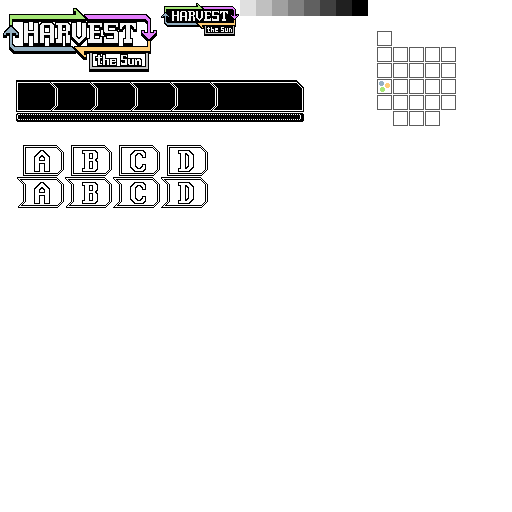
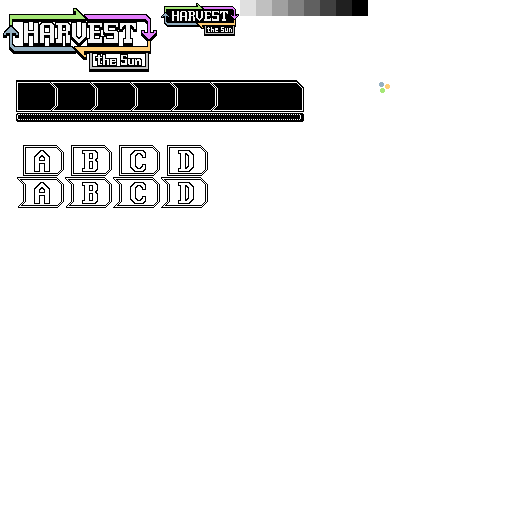
added bg and outlines for level builder sidepanel

Changed region(s): [[0.7188, 0.0625, 0.9062, 0.25]]

diff --git a/src/game/menus.py b/src/game/menus.py
@@ -1045,6 +1045,96 @@ class LevelMetaDataEditScene(OptionSelectScene):
                                    allowed_chars="ABCDabcd")
 
 
+class LevelEditObjectButton(ui.UiElement):
+
+    def __init__(self):
+        super().__init__()
+
+    def update(self):
+        pass
+
+    def get_size(self):
+        return (32, 32)
+
+    def __init__(self, scene, xy, icon, is_selected=lambda: False):
+        super().__init__()
+        self.scene = scene
+        self.icon = icon
+        self.is_selected = is_selected
+
+
+class LevelEditObjectSidepanel(ui.UiElement):
+    # NO STATE ALLOWED IN THIS CLASS
+    # don't even think about it
+
+    def __init__(self, scene):
+        super().__init__()
+
+        self.page_selector_img = None  # just a non-interactive image for now, lol
+
+        self.all_buttons = {}  # x, y -> LevelEditObjectButton
+        self.bg_fill = None
+        self.bg_panels = [None] * 5  # top, mid1, divider, mid2, bottom
+        self.expand_button = None
+
+        self.scene = scene
+        self.bg_opacity = 0.8
+
+    def _build_elements(self):
+        pass
+
+    def add_button(self, xy, button):
+        self.all_buttons[xy] = button
+
+    def all_sprites(self):
+        yield self.bg_fill
+        yield self.page_selector_img
+        for panel in self.bg_panels:
+            yield panel
+        if self.expand_button is not None:
+            pass  # is this even fucking necessary
+
+    def update_sprites(self):
+        xy = self.get_xy(absolute=True)
+        xy = (xy[0] + 4, xy[1])
+        size = self.get_panel_size()
+
+        if self.bg_fill is None:
+            model = spritesheets.get_instance().get_sheet(spritesheets.WhiteSquare.SHEET_ID).get_sprite(self.bg_opacity)
+            self.bg_fill = sprites.ImageSprite(model, 0, 0, spriteref.UI_BG_LAYER)
+        self.bg_fill = self.bg_fill.update(new_x=xy[0], new_y=xy[1], new_raw_size=size,
+                                           new_color=colors.PERFECT_BLACK, new_depth=10)
+
+        ys = [0, 8, size[1] - 64, size[1] - 64 + 8, size[1] - 8, size[1]]
+        for i in range(len(self.bg_panels)):
+            if i == 0:
+                model = spriteref.ui_sheet().level_builder_panel_top_outline
+            elif i == 2:
+                model = spriteref.ui_sheet().level_builder_panel_divider_outline
+            elif i == 4:
+                model = spriteref.ui_sheet().level_builder_panel_bottom_outline
+            else:
+                model = spriteref.ui_sheet().level_builder_panel_mid_outline
+
+            panel = self.bg_panels[i]
+            if panel is None:
+                panel = sprites.ImageSprite.new_sprite(spriteref.UI_FG_LAYER)
+            self.bg_panels[i] = panel.update(new_model=model, new_x=xy[0], new_y=ys[i],
+                                             new_raw_size=(size[0], ys[i + 1] - ys[i]),
+                                             new_color=colors.WHITE)
+
+    def update(self):
+        self.update_sprites()
+
+    def get_panel_size(self):
+        return 96, renderengine.get_instance().get_game_size()[1]
+
+    def get_size(self):
+        panel_size = self.get_panel_size()
+        # include width of the expand/contract button
+        return (panel_size[0] + 4, panel_size[1])
+
+
 class LevelEditGameScene(_BaseGameScene):
 
     def __init__(self, bp: blueprints.LevelBlueprint, output_file=None):
@@ -1071,12 +1161,18 @@ class LevelEditGameScene(_BaseGameScene):
         self.resolution_options = [cs // 8, cs // 4, cs // 2, cs]  # essentially assumes cs >= 16
         self.camera_speed = 8  # ticks per move (smaller == faster)
 
+        self.sidepanel = self._setup_sidepanel()
+
         self._dirty = False  # whether the current state is different from the last-saved state
 
         self.stamp_current_state()
         self.setup_new_world(bp)
 
         self.object_pallette = self._load_object_pallette()
+
+    def _setup_sidepanel(self):
+        return LevelEditObjectSidepanel(self)
+        # TODO add buttons and stuff
 
     def stamp_current_state(self):
         cur_specs = [s.copy() for s in self.all_spec_blobs]
@@ -1424,6 +1520,12 @@ class LevelEditGameScene(_BaseGameScene):
             dy = 2 * gs.get_instance().cell_size // zoom * camera_move_y
             self.get_world_view().move_camera_in_world((dx, dy))
 
+        sidepanel_size = self.sidepanel.get_size()
+        screen_size = renderengine.get_instance().get_game_size()
+        # TODO have it move incrementally while it's expanding / contracting
+        self.sidepanel.set_xy((screen_size[0] - sidepanel_size[0], 0))
+        self.sidepanel.update_self_and_kids()
+
         super().update()
 
     def handle_esc_pressed(self):
@@ -1495,6 +1597,12 @@ class LevelEditGameScene(_BaseGameScene):
                     for ent in self.entities_for_specs[key]:
                         ent.set_color_override(None)
                         ent.set_selected_in_editor(False)
+
+    def all_sprites(self):
+        for spr in super().all_sprites():
+            yield spr
+        for spr in self.sidepanel.all_sprites_from_self_and_kids():
+            yield spr
 
     def _create_new_world(self, world_type=0):
         if isinstance(world_type, blueprints.LevelBlueprint):

diff --git a/src/game/spriteref.py b/src/game/spriteref.py
@@ -530,6 +530,17 @@ class _UiSheet(spritesheets.SpriteSheet):
         self.translucent_squares = []
         self.translucent_pixels = []
 
+        self.level_builder_page_buttons = []     # (deselected_img, selected_img)
+        self.level_builder_button_outline = None
+        self.level_builder_new_obj_buttons = []
+        self.level_builder_misc_buttons = []
+        self.level_builder_panel_top_outline = None
+        self.level_builder_panel_mid_outline = None
+        self.level_builder_panel_divider_outline = None
+        self.level_builder_panel_bottom_outline = None
+        self.level_builder_expand_button = None
+        self.level_builder_contract_button = None
+
     def get_size(self, img_size):
         size = super().get_size(img_size)
         bar_size = _UiSheet.N_PROGRESS_BARS * 6
@@ -579,7 +590,19 @@ class _UiSheet(spritesheets.SpriteSheet):
         for r in rects_drawn:
             self.top_panel_progress_bars.append(_img(r[0], r[1], r[2], r[3], offs=(0, 0)))
 
+        self.level_builder_page_buttons = [(_img(376 + i * 16, 0, 16, 16, offs=start_pos),
+                                            _img(376 + i * 16, 16, 16, 16, offs=start_pos)) for i in range(5)]
+        self.level_builder_button_outline = _img(376, 32, 16, 16, offs=start_pos)
+        self.level_builder_new_obj_buttons = [_img(376 + (i % 5) * 16, 48 + (i // 5) * 16, 16, 16, offs=start_pos) for i in range(10)]
+        self.level_builder_misc_buttons = [_img(376 + (i % 5) * 16, 96 + (i // 5) * 16, 16, 16, offs=start_pos) for i in range(8)]
 
+        self.level_builder_panel_top_outline = _img(368, 136, 96, 8, offs=start_pos)
+        self.level_builder_panel_mid_outline = _img(368, 136 + 8, 96, 8, offs=start_pos)
+        self.level_builder_panel_divider_outline = _img(368, 136 + 8 * 2, 96, 8, offs=start_pos)
+        self.level_builder_panel_bottom_outline = _img(368, 136 + 8 * 3, 96, 8, offs=start_pos)
+
+        self.level_builder_expand_button = _img(368, 168, 8, 24, offs=start_pos)
+        self.level_builder_contract_button = _img(376, 168, 8, 24, offs=start_pos)
 
     def get_character_card_sprite(self, player_type, is_first):
         return self._character_cards[(player_type.get_id(), is_first)]
